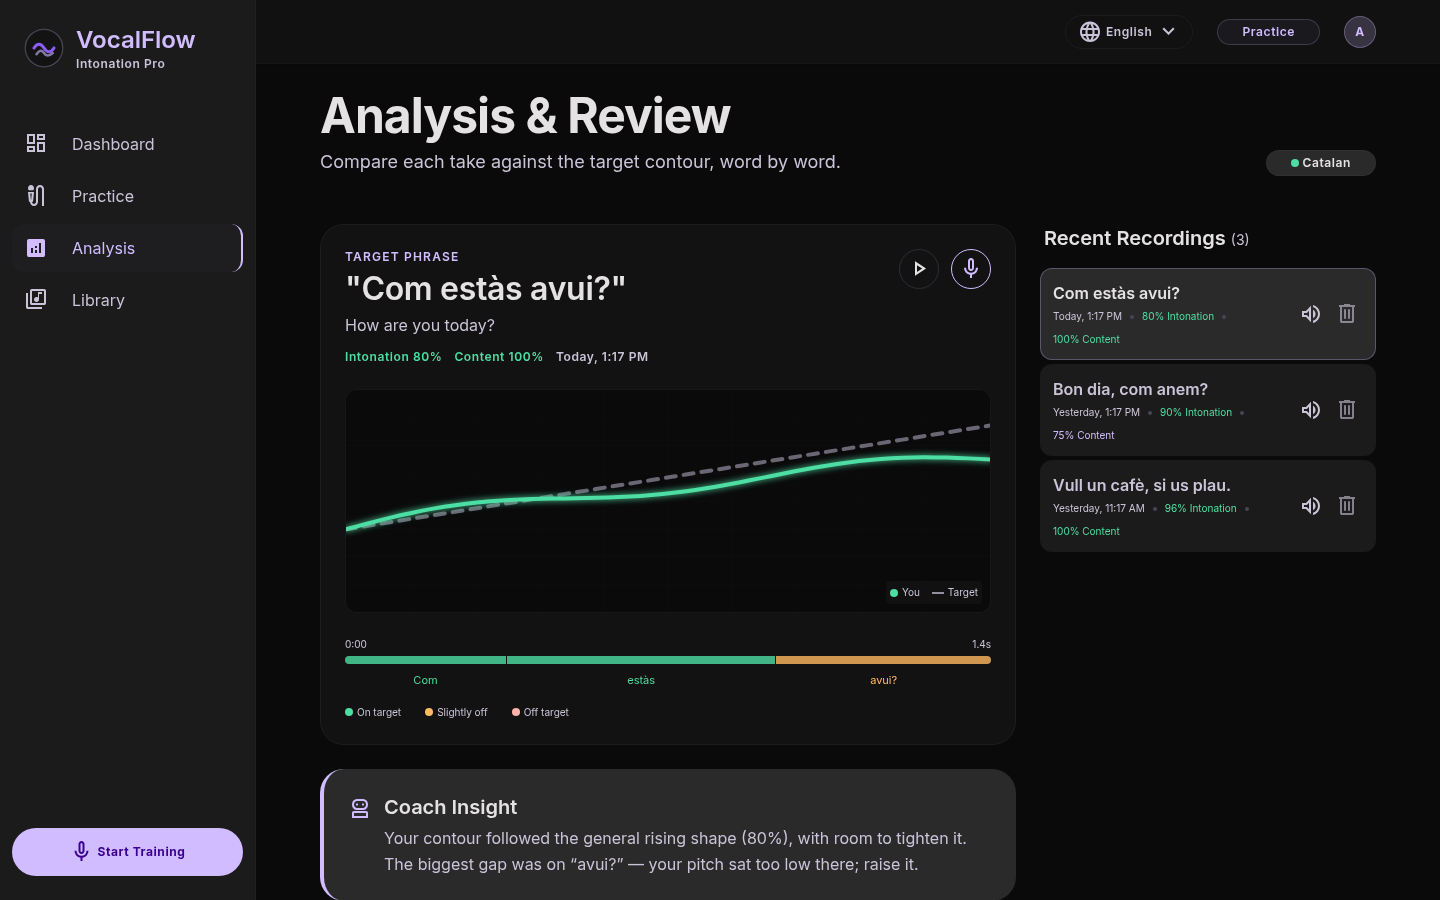
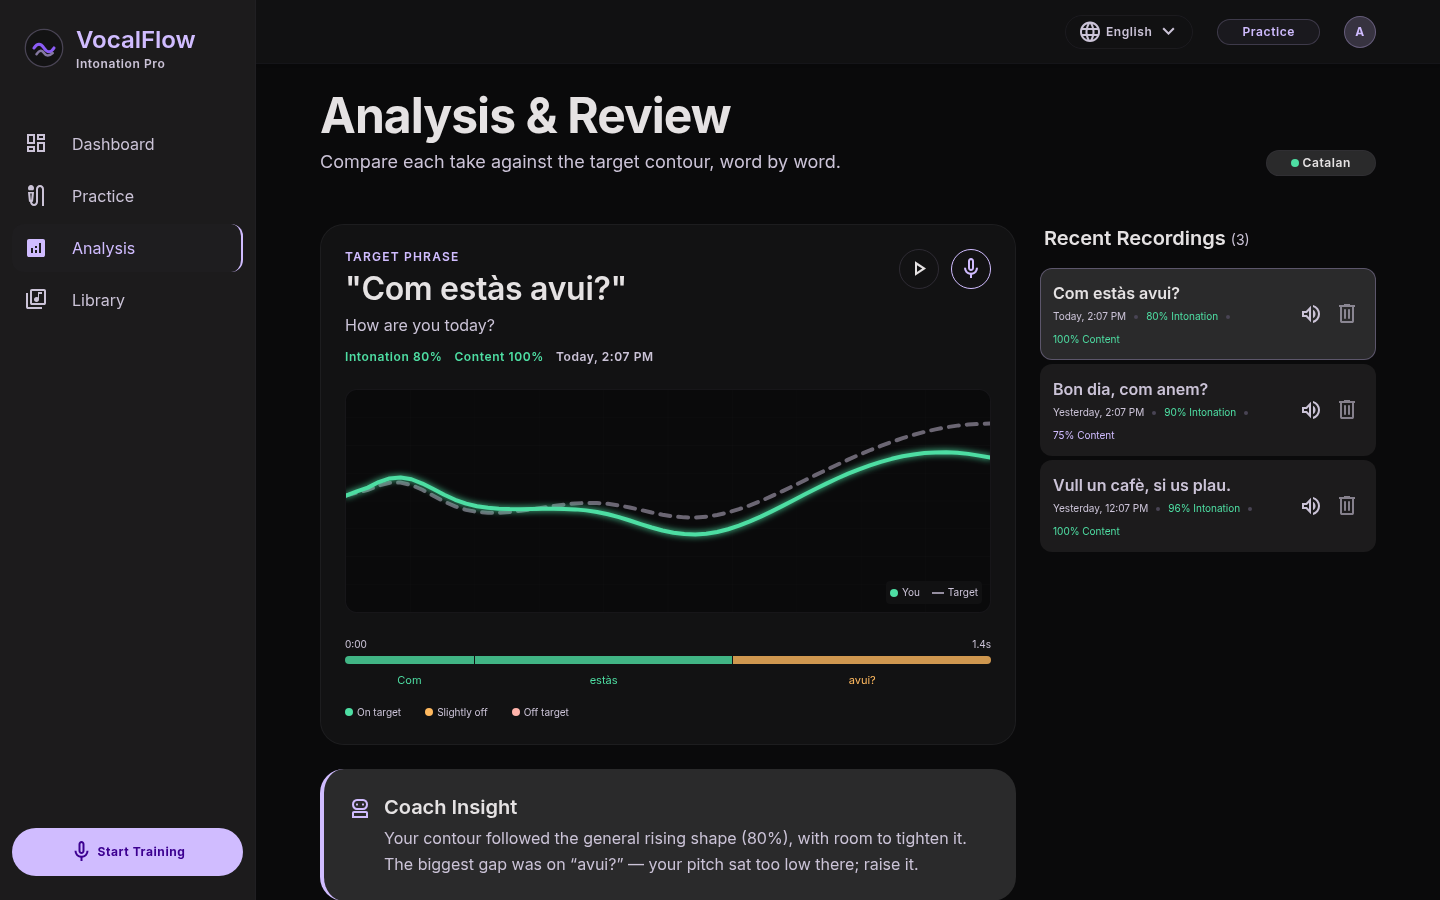
fix: target voice ui

diff --git a/src/utils/prosody.js b/src/utils/prosody.js
@@ -1,0 +1,158 @@
+// Builds a phrase-specific target pitch contour from its text, using a small
+// rule-based intonation model instead of a straight line:
+//
+//   declination      pitch drifts down slowly across the utterance
+//   pitch accents    a bump on the stressed syllable of each content word
+//   nuclear accent   the last content word (or the phrase's `highlight`)
+//                    carries the main movement
+//   boundary tone    rising: low nucleus, then a climb to the end
+//                    falling: high nucleus, then a drop that stays low
+//                    neutral: small accents, gentle final settle
+//
+// Values are computed in semitones, then mapped onto the same 0..1 scale the
+// scorer uses (see UNITS_PER_SEMITONE in intonation.js).
+
+export const CONTOUR_POINTS = 60
+
+// How many contour units one semitone spans (shared with the scorer).
+export const UNITS_PER_SEMITONE = 0.07
+const CENTRE = 0.58
+
+// Unaccented words (articles, pronouns, auxiliaries, prepositions…) in the
+// app's three languages. Everything else is treated as a content word.
+const FUNCTION_WORDS = new Set(
+  (
+    'a an the and or but of to in on at for with from by as is are was were be been am do does did ' +
+    'i you he she it we they me him us them my your his her its our their this that these those ' +
+    'there not no can could would will shall should may might must have has had if so just ' +
+    'el la lo los las un una unos unas y e o u de del al en con por para que es son está están ' +
+    'soy eres me te se le les nos mi mis tu tus su sus ' +
+    'els les uns unes i amb per és són està estan sóc em et es li ho ens meu teu seu si us'
+  ).split(' '),
+)
+
+const VOWEL_GROUP = /[aeiouyàáèéìíòóùúïü]+/gi
+const STRESS_MARK = /[áéíóúàèòù]/i
+
+function normalizeWord(word) {
+  return word.toLowerCase().replace(/[^\p{L}\p{N}']/gu, '')
+}
+
+function syllableGroups(word, language) {
+  const groups = [...word.matchAll(VOWEL_GROUP)].map((m) => ({ text: m[0], index: m.index }))
+  // English silent final -e ("please", "like"), but keep "-le" ("little").
+  if (language === 'English' && groups.length > 1 && /[^l]e$/.test(word)) {
+    const last = groups.at(-1)
+    if (last.text === 'e' && last.index === word.length - 1) groups.pop()
+  }
+  return groups.length ? groups : [{ text: word, index: 0 }]
+}
+
+// Index of the stressed syllable. Written accents win; otherwise the default
+// Spanish/Catalan rule (penultimate if the word ends in a vowel, -n or -s,
+// else final) or the common English first-syllable stress.
+function stressedSyllable(word, groups, language) {
+  const marked = groups.findIndex((g) => STRESS_MARK.test(g.text))
+  if (marked >= 0) return marked
+  if (groups.length === 1) return 0
+  if (language === 'Spanish' || language === 'Catalan') {
+    return /[aeiouns]$/.test(word) ? groups.length - 2 : groups.length - 1
+  }
+  return 0
+}
+
+// Phrase-final words are drawn out in real speech (final lengthening), which is
+// also where the boundary rise/fall happens; give them this many extra beats.
+const FINAL_LENGTHENING = 1.2
+
+// Splits a phrase into words laid out on a 0..1 timeline, with time allotted
+// in proportion to syllable count. Shared with the per-word heat map so both
+// agree on where each word sits.
+export function wordTimeline(text, language = 'English') {
+  const words = (text || '')
+    .split(/\s+/)
+    .map((raw) => ({ raw, norm: normalizeWord(raw) }))
+    .filter((w) => w.norm)
+  const sized = words.map((w) => {
+    const groups = syllableGroups(w.norm, language)
+    return { ...w, syllables: groups.length, stressIdx: stressedSyllable(w.norm, groups, language) }
+  })
+  const beats = sized.map((w, i) => w.syllables + (i === sized.length - 1 ? FINAL_LENGTHENING : 0))
+  const total = beats.reduce((a, v) => a + v, 0)
+  let cursor = 0
+  return sized.map((w, i) => {
+    const start = cursor / total
+    cursor += beats[i]
+    const end = cursor / total
+    return {
+      word: w.raw,
+      norm: w.norm,
+      syllables: w.syllables,
+      start,
+      end,
+      stress: start + ((w.stressIdx + 0.5) / w.syllables) * (end - start),
+      isFunction: FUNCTION_WORDS.has(w.norm),
+    }
+  })
+}
+
+function bump(t, centre, width) {
+  return Math.exp(-((t - centre) ** 2) / (2 * width * width))
+}
+
+function smoothstep(from, to, t) {
+  if (t <= from) return 0
+  if (t >= to) return 1
+  const x = (t - from) / (to - from)
+  return x * x * (3 - 2 * x)
+}
+
+function movingAverage(values, radius) {
+  return values.map((_, i) => {
+    let sum = 0
+    let count = 0
+    for (let k = Math.max(0, i - radius); k <= Math.min(values.length - 1, i + radius); k++) {
+      sum += values[k]
+      count++
+    }
+    return sum / count
+  })
+}
+
+// phrase: { text, pattern, language?, highlight? }
+export function targetContour(phrase, n = CONTOUR_POINTS) {
+  const pattern = phrase?.pattern || 'rising'
+  const words = wordTimeline(phrase?.text, phrase?.language)
+  if (!words.length) return new Array(n).fill(CENTRE)
+
+  const content = words.filter((w) => !w.isFunction)
+  const accented = content.length ? content : words
+  const hl = phrase.highlight ? normalizeWord(phrase.highlight) : ''
+  const nucleus = (hl && words.find((w) => w.norm === hl)) || accented.at(-1)
+  const prenuclear = accented.filter((w) => w !== nucleus && w.stress < nucleus.stress)
+  const width = (w) => Math.max(0.035, 0.3 * (w.end - w.start))
+
+  const st = []
+  for (let i = 0; i < n; i++) {
+    const t = i / (n - 1)
+    let v = pattern === 'rising' ? 1 - 1.5 * t : 1.5 - 3 * t
+
+    const accentSize = pattern === 'neutral' ? 1.2 : 2.5
+    for (const w of prenuclear) v += accentSize * bump(t, w.stress, width(w))
+
+    // The boundary movement starts on the nuclear syllable itself.
+    const tail = smoothstep(nucleus.stress - width(nucleus), 1, t)
+    if (pattern === 'rising') {
+      v += -1.5 * bump(t, nucleus.stress - width(nucleus), width(nucleus)) + 8 * tail
+    } else if (pattern === 'falling') {
+      v += 4.5 * bump(t, nucleus.stress - 0.5 * width(nucleus), width(nucleus)) - 6 * tail
+    } else {
+      v += 1.5 * bump(t, nucleus.stress, width(nucleus)) - 1 * tail
+    }
+    st.push(v)
+  }
+
+  const smooth = movingAverage(st, 2)
+  const mean = smooth.reduce((a, v) => a + v, 0) / smooth.length
+  return smooth.map((v) => Math.min(0.96, Math.max(0.04, CENTRE + (v - mean) * UNITS_PER_SEMITONE)))
+}

diff --git a/src/views/PracticeView.vue b/src/views/PracticeView.vue
@@ -6,7 +6,8 @@ import { phrases, defaultPhraseId, tonalPatterns } from '../data/phrases'
 import { useSpeechRecognition } from '../composables/useSpeechRecognition'
 import { micSupported, usePitchDetection } from '../composables/usePitchDetection'
 import { matchContent } from '../utils/contentMatch'
-import { displayContour, scoreContour, targetContour, userContour } from '../utils/intonation'
+import { displayContour, scoreContour, userContour } from '../utils/intonation'
+import { targetContour } from '../utils/prosody'
 import { langTagFor, speak, stopSpeaking, ttsSupported } from '../utils/speech'
 import { generatePhraseSuggestions, hasLocalAI } from '../utils/localAI'
 import { lengthBadge, patternBadge, scoreColor } from '../utils/ui'
@@ -29,7 +30,7 @@ const phrase = computed(
     phrases[0],
 )
 const pattern = computed(() => tonalPatterns[phrase.value.pattern] || tonalPatterns.rising)
-const target = computed(() => targetContour(phrase.value.pattern))
+const target = computed(() => targetContour(phrase.value))
 
 // Keep the app language in sync with the phrase being practised, and jump to a
 // phrase in the new language when the language is changed elsewhere.
@@ -103,14 +104,17 @@ const hasSamples = computed(() => displaySamples.value.some((v) => v !== null))
 const currentTranscript = computed(() => speech.fullTranscript.value)
 const liveContentMatch = computed(() => (currentTranscript.value ? matchContent(currentTranscript.value, phrase.value.text) : null))
 
-const spectralBars = computed(() => {
-  const base = [20, 30, 50, 80, 60, 20, 10, 40, 70, 90, 50]
-  if (!isRecording.value) return base.map((h) => ({ h, a: 0.5 }))
-  const energy = Math.min(1, (pitch.level || 0) * 14)
-  return base.map((h) => ({
-    h: Math.min(100, Math.max(6, h * (0.5 + energy * 0.9) + Math.random() * 14)),
-    a: 0.45 + 0.55 * energy,
-  }))
+// Live fundamental frequency (F0) readout — what is actually being scored.
+// Median of the recent voiced frames keeps the number readable at 60 fps;
+// shows nothing between words rather than a stale value.
+const NOTE_NAMES = ['C', 'C♯', 'D', 'D♯', 'E', 'F', 'F♯', 'G', 'G♯', 'A', 'A♯', 'B']
+const livePitch = computed(() => {
+  if (!isRecording.value) return null
+  const recent = pitch.samples.slice(-8).filter((hz) => hz >= 60 && hz <= 500)
+  if (recent.length < 3) return null
+  const hz = [...recent].sort((a, b) => a - b)[recent.length >> 1]
+  const midi = Math.round(69 + 12 * Math.log2(hz / 440))
+  return { hz: Math.round(hz), note: `${NOTE_NAMES[midi % 12]}${Math.floor(midi / 12) - 1}` }
 })
 
 const feedback = computed(() => {
@@ -509,7 +513,7 @@ onBeforeUnmount(() => {
           </div>
         </div>
 
-        <!-- Controls & Spectral Waveform -->
+        <!-- Controls & live pitch -->
         <div class="glass-panel rounded-xl p-sm flex flex-col gap-sm">
           <div class="flex items-start justify-center gap-md sm:gap-lg">
             <div class="flex flex-col items-center gap-1 pt-4">
@@ -575,15 +579,14 @@ onBeforeUnmount(() => {
               Next phrase <span class="material-symbols-outlined text-[18px]">arrow_forward</span>
             </button>
           </div>
-          <!-- Spectral Waveform -->
-          <div class="h-12 flex items-end justify-center gap-[2px] opacity-70" aria-hidden="true">
-            <div
-              v-for="(bar, i) in spectralBars"
-              :key="i"
-              class="w-1 rounded-t-sm"
-              :class="isRecording ? 'bg-secondary' : 'bg-primary'"
-              :style="{ height: bar.h + '%', opacity: bar.a }"
-            ></div>
+          <!-- Live pitch (F0) readout -->
+          <div v-if="isRecording" class="flex items-baseline justify-center gap-sm h-8" aria-hidden="true">
+            <span class="text-label-md text-on-surface-variant uppercase tracking-wider">Pitch</span>
+            <template v-if="livePitch">
+              <span class="text-headline-sm text-secondary tabular-nums">{{ livePitch.hz }} Hz</span>
+              <span class="text-label-md text-on-surface-variant tabular-nums">{{ livePitch.note }}</span>
+            </template>
+            <span v-else class="text-headline-sm text-outline-variant">—</span>
           </div>
         </div>
       </div>

diff --git a/src/utils/intonation.js b/src/utils/intonation.js
@@ -1,28 +1,13 @@
 // Intonation scoring. Pitch is compared by *shape*, not absolute frequency:
 // the user's voiced pitch track is converted to semitones relative to their own
 // median, then centred on the target curve. A low and a high voice making the
-// same melodic movement therefore score the same.
+// same melodic movement therefore score the same. Targets come from prosody.js.
 
-export const CONTOUR_POINTS = 60
-
-// How many target-curve units one semitone spans. A typical question rise is
-// ~8 semitones, which maps onto the 0.55-unit rise of the rising target.
-const UNITS_PER_SEMITONE = 0.07
+import { UNITS_PER_SEMITONE, wordTimeline } from './prosody'
 
 const MIN_HZ = 60
 const MAX_HZ = 500
 const MAX_GAP_FRAMES = 6
-
-export function targetContour(pattern, n = CONTOUR_POINTS) {
-  const out = []
-  for (let i = 0; i < n; i++) {
-    const p = i / (n - 1)
-    if (pattern === 'rising') out.push(0.35 + 0.55 * p)
-    else if (pattern === 'falling') out.push(0.85 - 0.55 * p)
-    else out.push(0.6 - 0.05 * p * p)
-  }
-  return out
-}
 
 export function resample(arr, n) {
   if (!arr.length) return []
@@ -113,24 +98,22 @@ export function scoreContour(contour, target) {
   return Math.round(clamp01(1 - meanAbsDiff(contour, target) * 3) * 100)
 }
 
-// Splits the contour into one segment per word (weighted by word length) and
-// grades each: perfect / slight / strong deviation.
-export function wordScores(text, contour, target) {
-  const words = text.split(/\s+/).filter(Boolean)
+// Splits the contour into one segment per word, using the same syllable-based
+// timeline the target was built on, and grades each: perfect / slight / strong.
+// phrase: { text, language? }
+export function wordScores(phrase, contour, target) {
+  const words = wordTimeline(phrase?.text, phrase?.language)
   if (!words.length || !contour) return []
-  const weights = words.map((w) => Math.max(2, w.replace(/[^\p{L}\p{N}]/gu, '').length))
-  const total = weights.reduce((a, v) => a + v, 0)
-  let cursor = 0
-  return words.map((word, i) => {
-    const from = Math.round((cursor / total) * contour.length)
-    cursor += weights[i]
-    const to = Math.max(from + 1, Math.round((cursor / total) * contour.length))
+  const n = contour.length
+  return words.map(({ word, syllables, start, end }) => {
+    const from = Math.min(n - 1, Math.round(start * n))
+    const to = Math.max(from + 1, Math.round(end * n))
     const err = meanAbsDiff(contour, target, from, to)
     let bias = 0
     for (let k = from; k < to; k++) bias += contour[k] - target[k]
     const tone = err < 0.08 ? 'perfect' : err < 0.16 ? 'slight' : 'strong'
     // bias > 0: the voice sat above the target on this word; < 0: below it.
-    return { word, tone, weight: weights[i], err, bias: bias / (to - from) }
+    return { word, tone, weight: syllables, err, bias: bias / (to - from) }
   })
 }
 

diff --git a/src/views/AnalysisView.vue b/src/views/AnalysisView.vue
@@ -3,7 +3,8 @@ import { computed, onBeforeUnmount, ref } from 'vue'
 import { useRoute, useRouter } from 'vue-router'
 import PitchCurve from '../components/PitchCurve.vue'
 import { tonalPatterns } from '../data/phrases'
-import { targetContour, wordScores } from '../utils/intonation'
+import { wordScores } from '../utils/intonation'
+import { targetContour } from '../utils/prosody'
 import { speak, stopSpeaking } from '../utils/speech'
 import { relativeTime, scoreColor } from '../utils/ui'
 import { deleteRecording, findPhrase, store } from '../store'
@@ -17,7 +18,10 @@ const active = computed(
   () => recordings.value.find((r) => String(r.id) === String(route.query.rec)) || recordings.value[0] || null,
 )
 const activePhrase = computed(() => (active.value ? findPhrase(active.value.phraseId) : null))
-const target = computed(() => (active.value ? targetContour(active.value.pattern) : []))
+// The catalog phrase carries `highlight`; fall back to the recording itself
+// (text/pattern/language) if the phrase no longer exists.
+const targetSource = computed(() => activePhrase.value || active.value)
+const target = computed(() => (active.value ? targetContour(targetSource.value) : []))
 
 function select(rec) {
   router.replace({ query: { rec: rec.id } })
@@ -29,7 +33,7 @@ const toneClasses = {
   strong: { bg: 'bg-error', text: 'text-error', label: 'Off target' },
 }
 
-const heatmap = computed(() => (active.value ? wordScores(active.value.text, active.value.contour, target.value) : []))
+const heatmap = computed(() => (active.value ? wordScores(targetSource.value, active.value.contour, target.value) : []))
 
 const insight = computed(() => {
   const rec = active.value

diff --git a/src/data/phrases.js b/src/data/phrases.js
@@ -8,7 +8,7 @@ export const tonalPatterns = {
   rising: {
     label: 'Rising Intonation',
     short: 'Rising',
-    desc: 'Indicates genuine inquiry or surprise. The pitch should steadily increase towards the end of the phrase.',
+    desc: 'Indicates genuine inquiry or surprise. Pitch stays fairly level, dips on the last stressed word, then climbs through to the end.',
     markers: [
       { color: 'bg-secondary', text: 'Strong onset' },
       { color: 'bg-tertiary', text: 'Mid-phrase dip too low' },
@@ -18,7 +18,7 @@ export const tonalPatterns = {
   falling: {
     label: 'Falling Intonation',
     short: 'Falling',
-    desc: 'Typical of statements and WH- questions. Pitch descends and stabilizes at the end of the phrase.',
+    desc: 'Typical of statements and WH- questions. Pitch peaks on the last stressed word, then falls and stays low to the end.',
     markers: [
       { color: 'bg-primary', text: 'Even stress across content words' },
       { color: 'bg-secondary', text: 'Clean final glide down' },
@@ -27,7 +27,7 @@ export const tonalPatterns = {
   neutral: {
     label: 'Neutral / Polite',
     short: 'Neutral',
-    desc: 'A flat, even contour. Pitch stays in a narrow band with gentle terminal settling.',
+    desc: 'A flat, even contour. Small bumps on stressed words, a narrow range, and a gentle settle at the end.',
     markers: [{ color: 'bg-secondary', text: 'Consistent, narrow range' }],
   },
 }

diff --git a/src/store.js b/src/store.js
@@ -1,6 +1,7 @@
 import { reactive, watch } from 'vue'
 import { phrases } from './data/phrases'
-import { scoreContour, targetContour } from './utils/intonation'
+import { scoreContour } from './utils/intonation'
+import { targetContour } from './utils/prosody'
 
 const STORAGE_KEY = 'vocalflow:v1'
 const MAX_RECORDINGS = 50
@@ -10,7 +11,7 @@ const MAX_RECORDINGS = 50
 // numbers always agree with what is drawn.
 function seedRecording(id, phraseId, hoursAgo, wobble, content) {
   const p = phrases.find((x) => x.id === phraseId)
-  const target = targetContour(p.pattern)
+  const target = targetContour(p)
   const contour = target.map((v, i) => {
     const t = i / (target.length - 1)
     return Math.min(1, Math.max(0, v + wobble.amp * Math.sin(t * Math.PI * wobble.freq) - wobble.tail * t * t))

diff --git a/README.md b/README.md
@@ -5,7 +5,7 @@ A standalone Vue 3 app that implements the **Polyglot Intonation Trainer** proje
 ## Features
 
 - **Dashboard** — weekly activity, language progress rings, recommended phrases, streak
-- **Practice** — speak a phrase and get a live pitch-curve overlay against the native target, with real-time waveform visualization and a match score. Your take is captured via `MediaRecorder` and can be **replayed** (and replayed later from the Analysis screen) with the play button.
+- **Practice** — speak a phrase and get a live pitch-curve overlay against the native target, a live pitch (F0) readout in Hz and note name, and a match score. Your take is captured via `MediaRecorder` and can be **replayed** (and replayed later from the Analysis screen) with the play button.
   Press **Space** to start/stop recording; **Esc** closes the phrase picker.
 - **Analysis** — your stored contour overlaid on the target, a per-word heatmap showing where you drifted (and in which direction), coach feedback, and a recording history you can replay or delete
 - **Library** — searchable/filterable phrase catalog with waveform thumbnails, favorites, and a "My Recordings" tab with your best score per phrase
